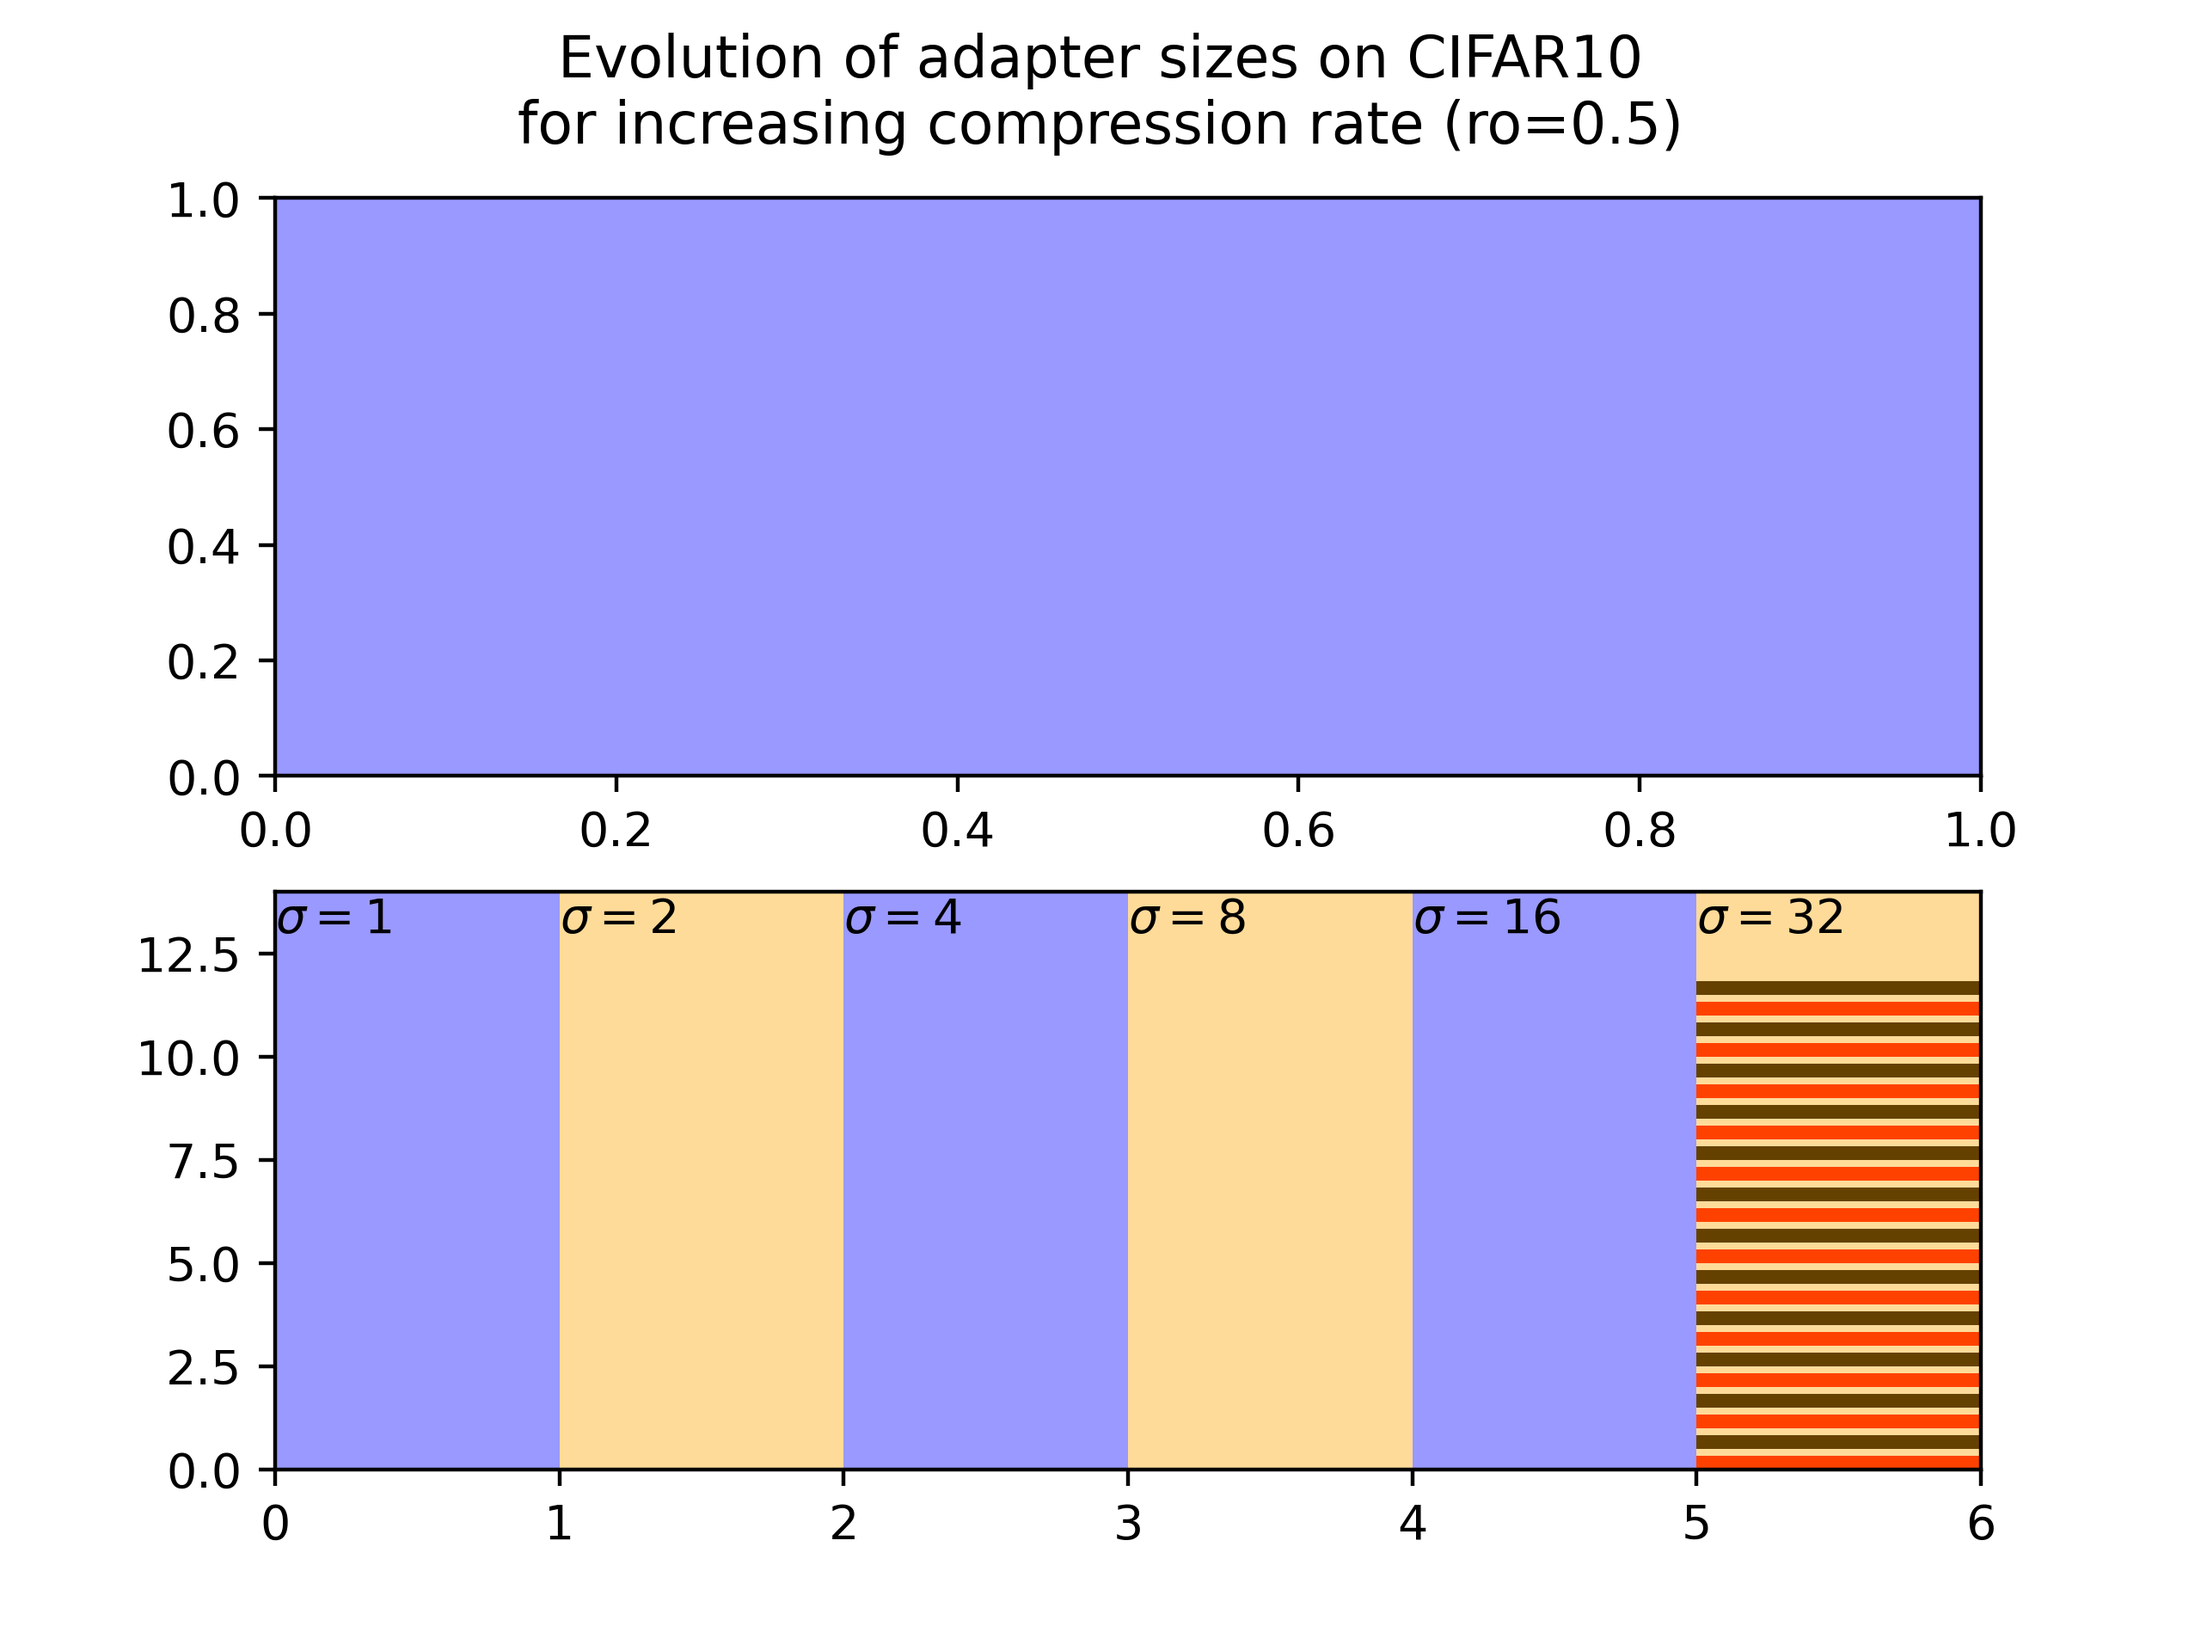
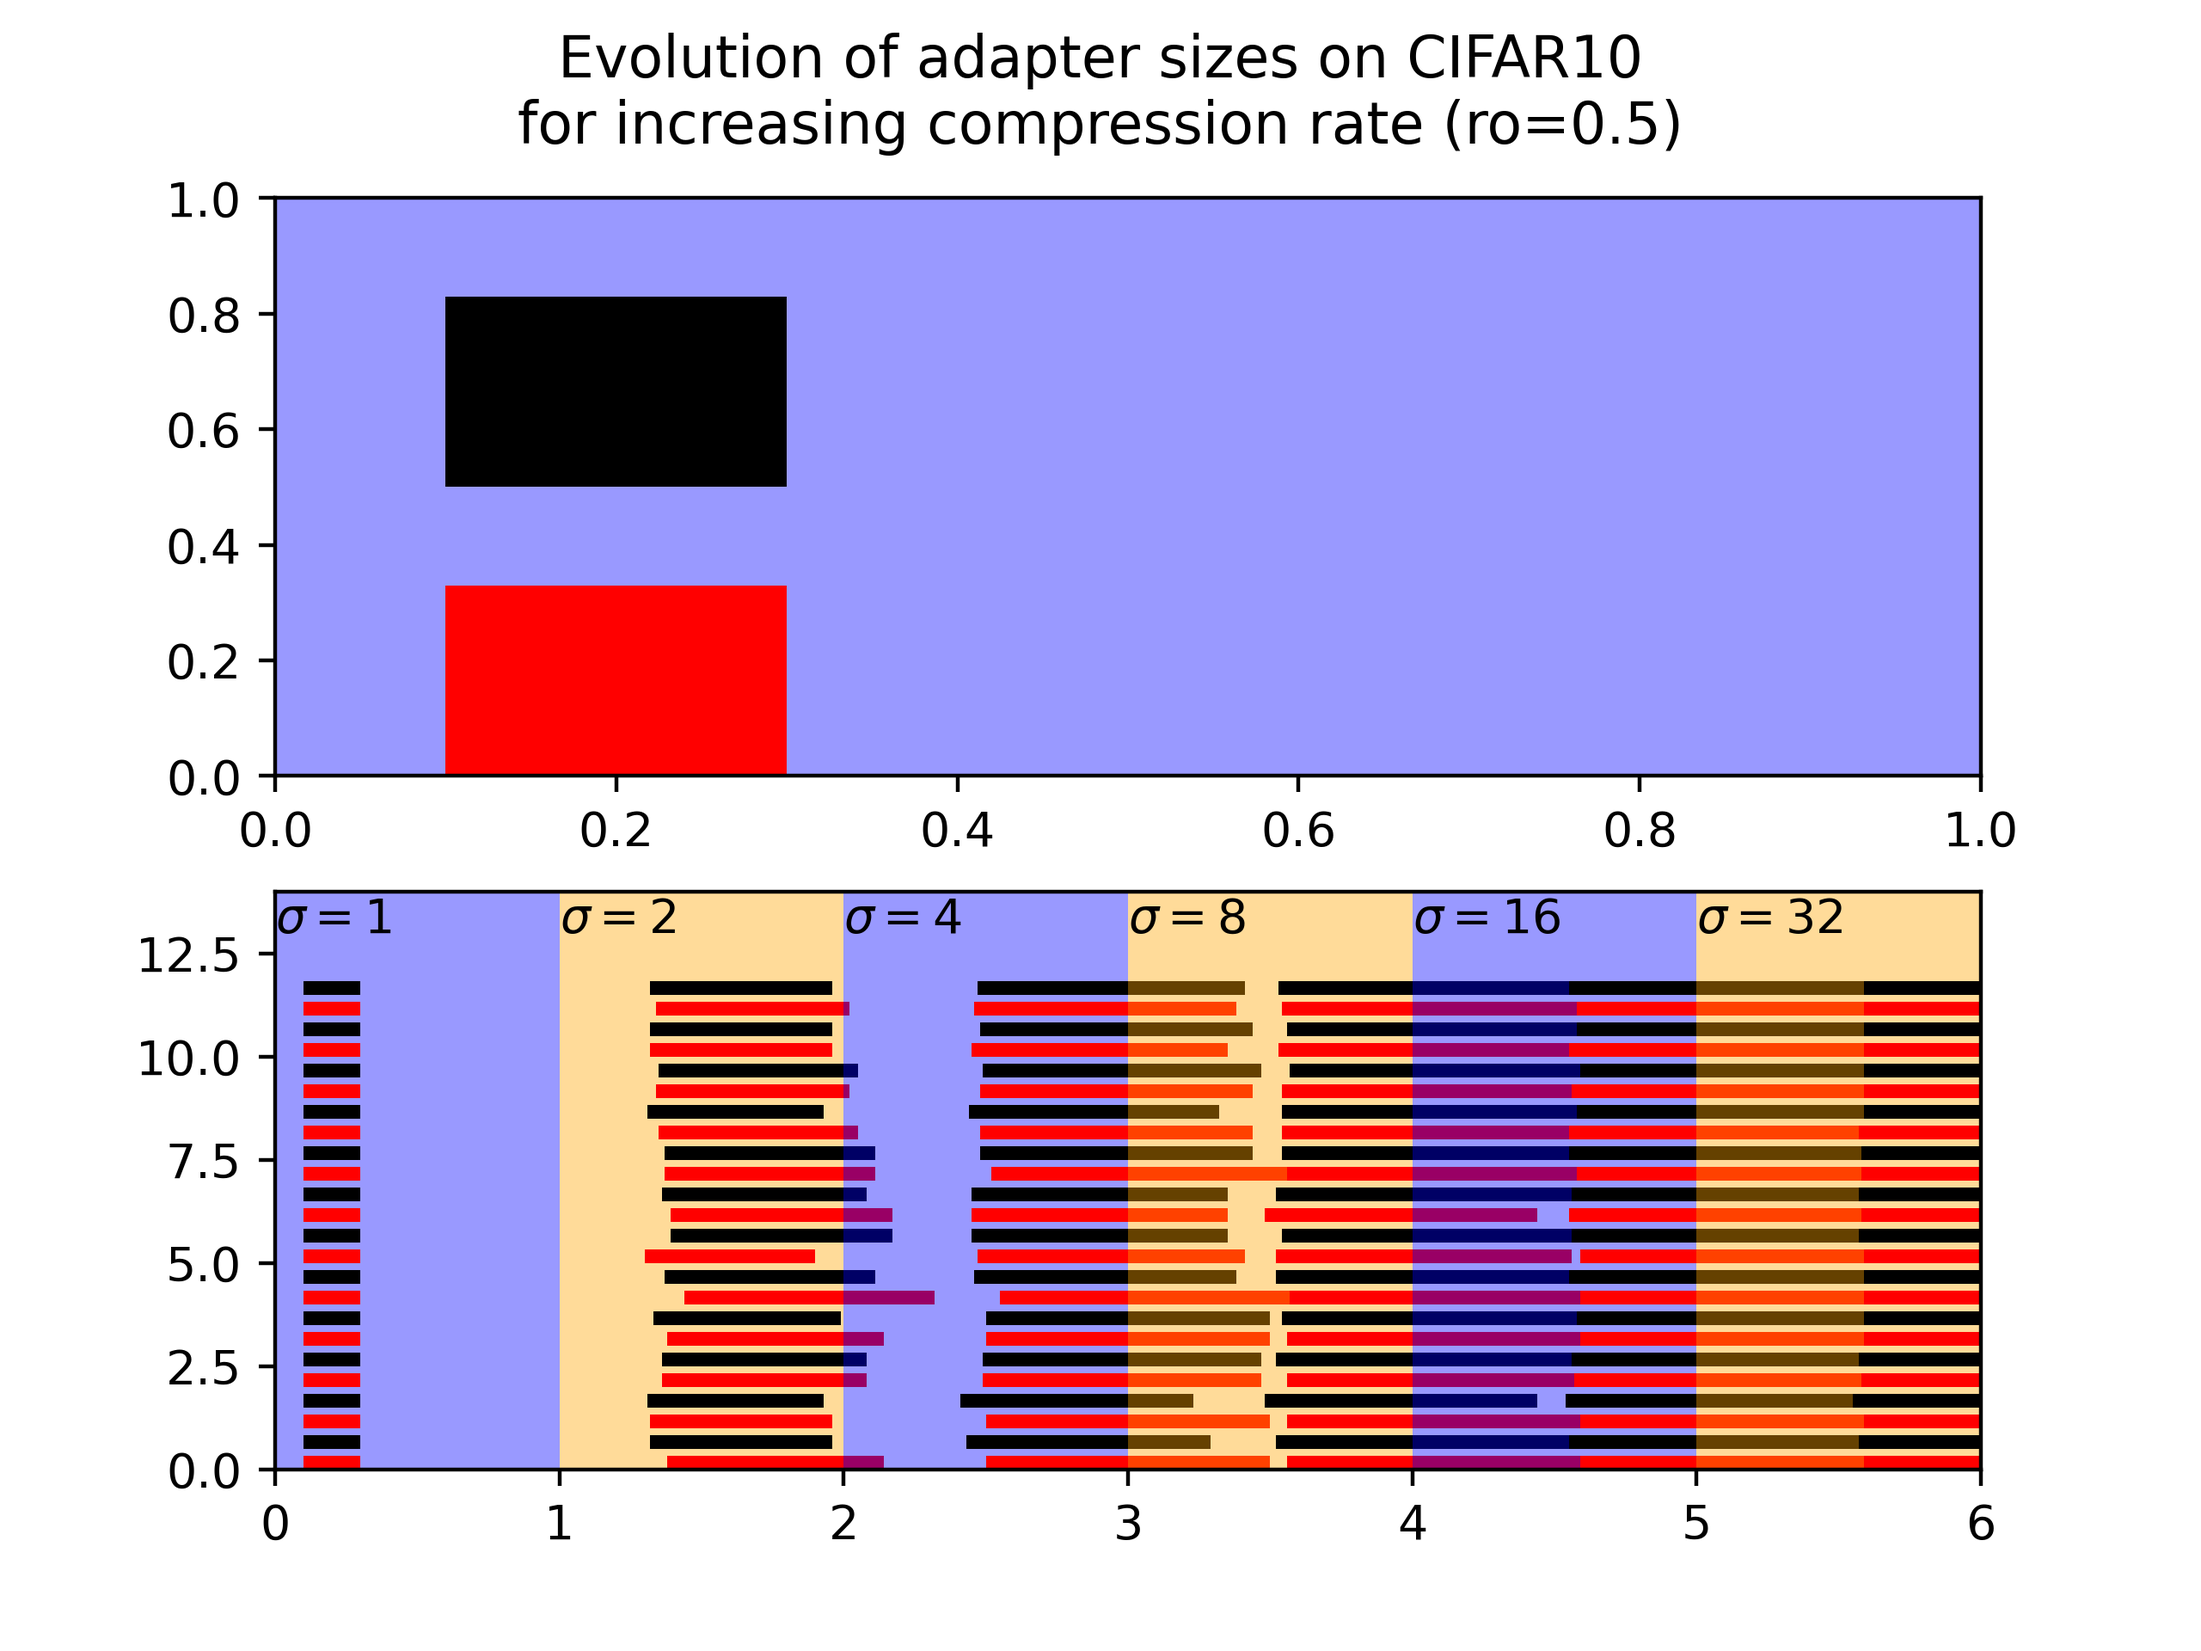
enum

diff --git a/src/viz.py b/src/viz.py
@@ -98,8 +98,8 @@ def illustrate_layer_shrink(opt):
 			for layerIndex in range(len(intermediate)):
 				for subLayerIndex, subLayer in enumerate([intermediate, output]):
 					num = subLayer[layerIndex]
-					width = (60-num)/50
-					xPos = compIndex + width/2
+					width = num/60
+					xPos = compIndex + 1.2*width/2
 
 					yPos = layerIndex + subLayerIndex*0.5
 					height = 0.33
